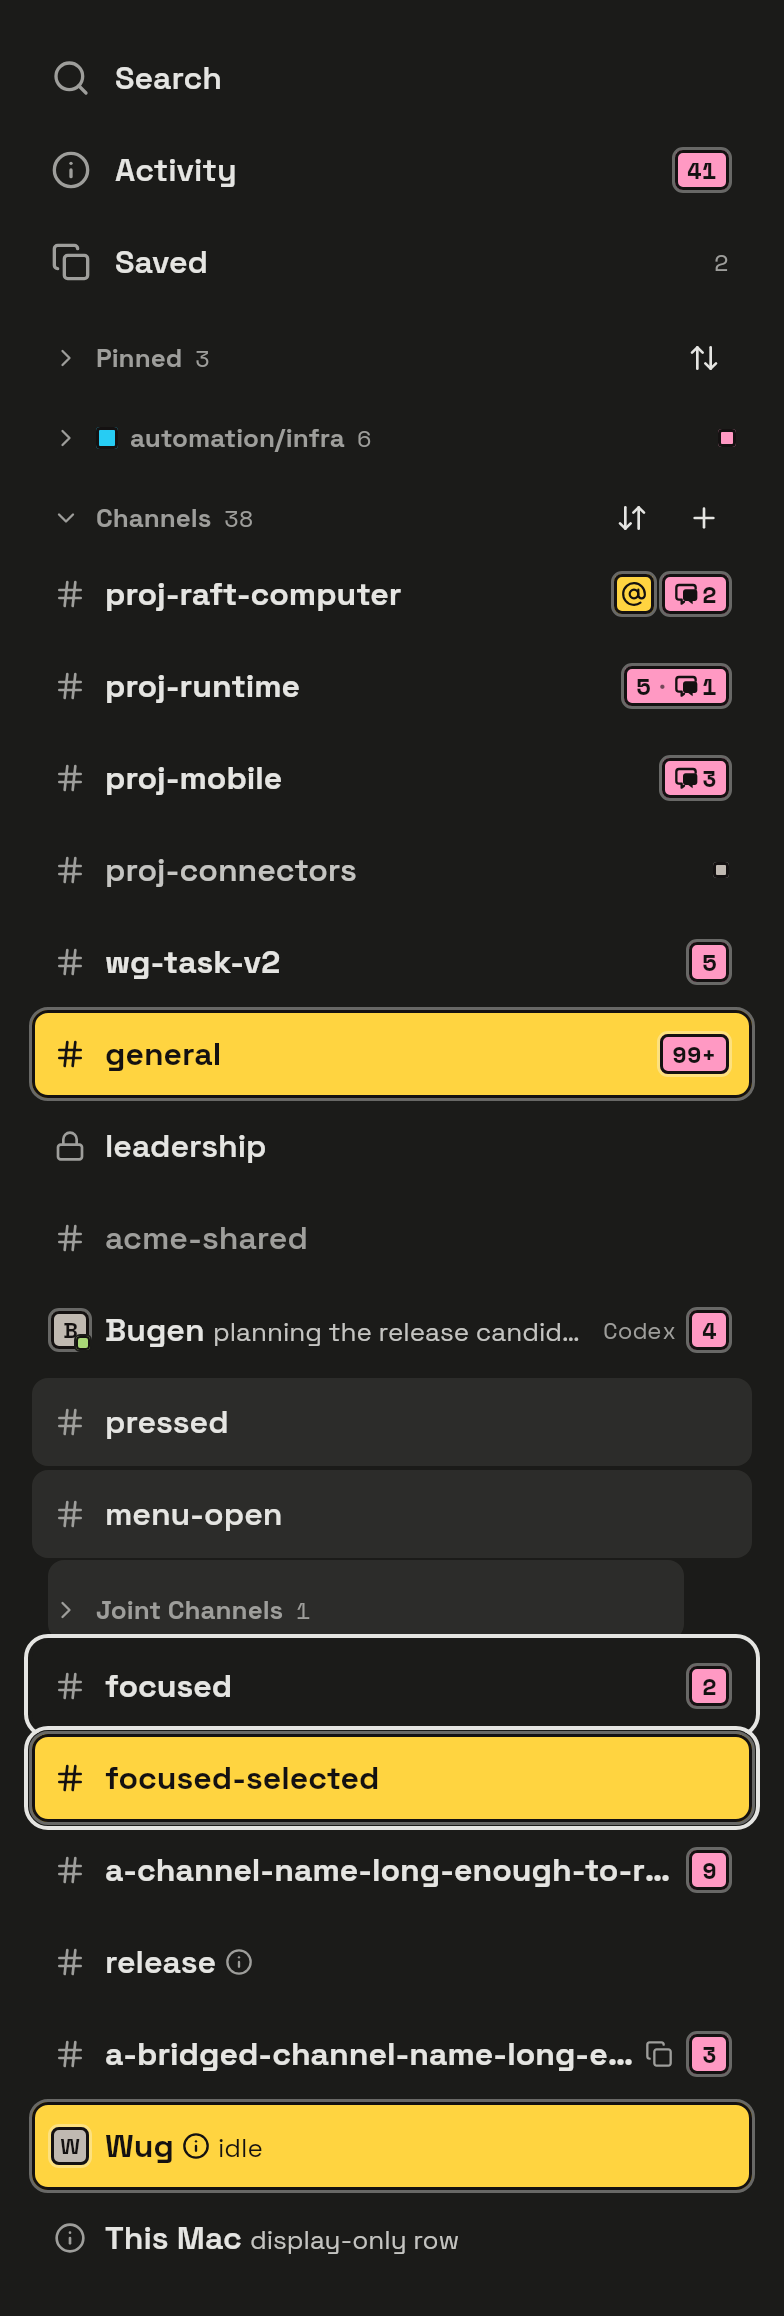
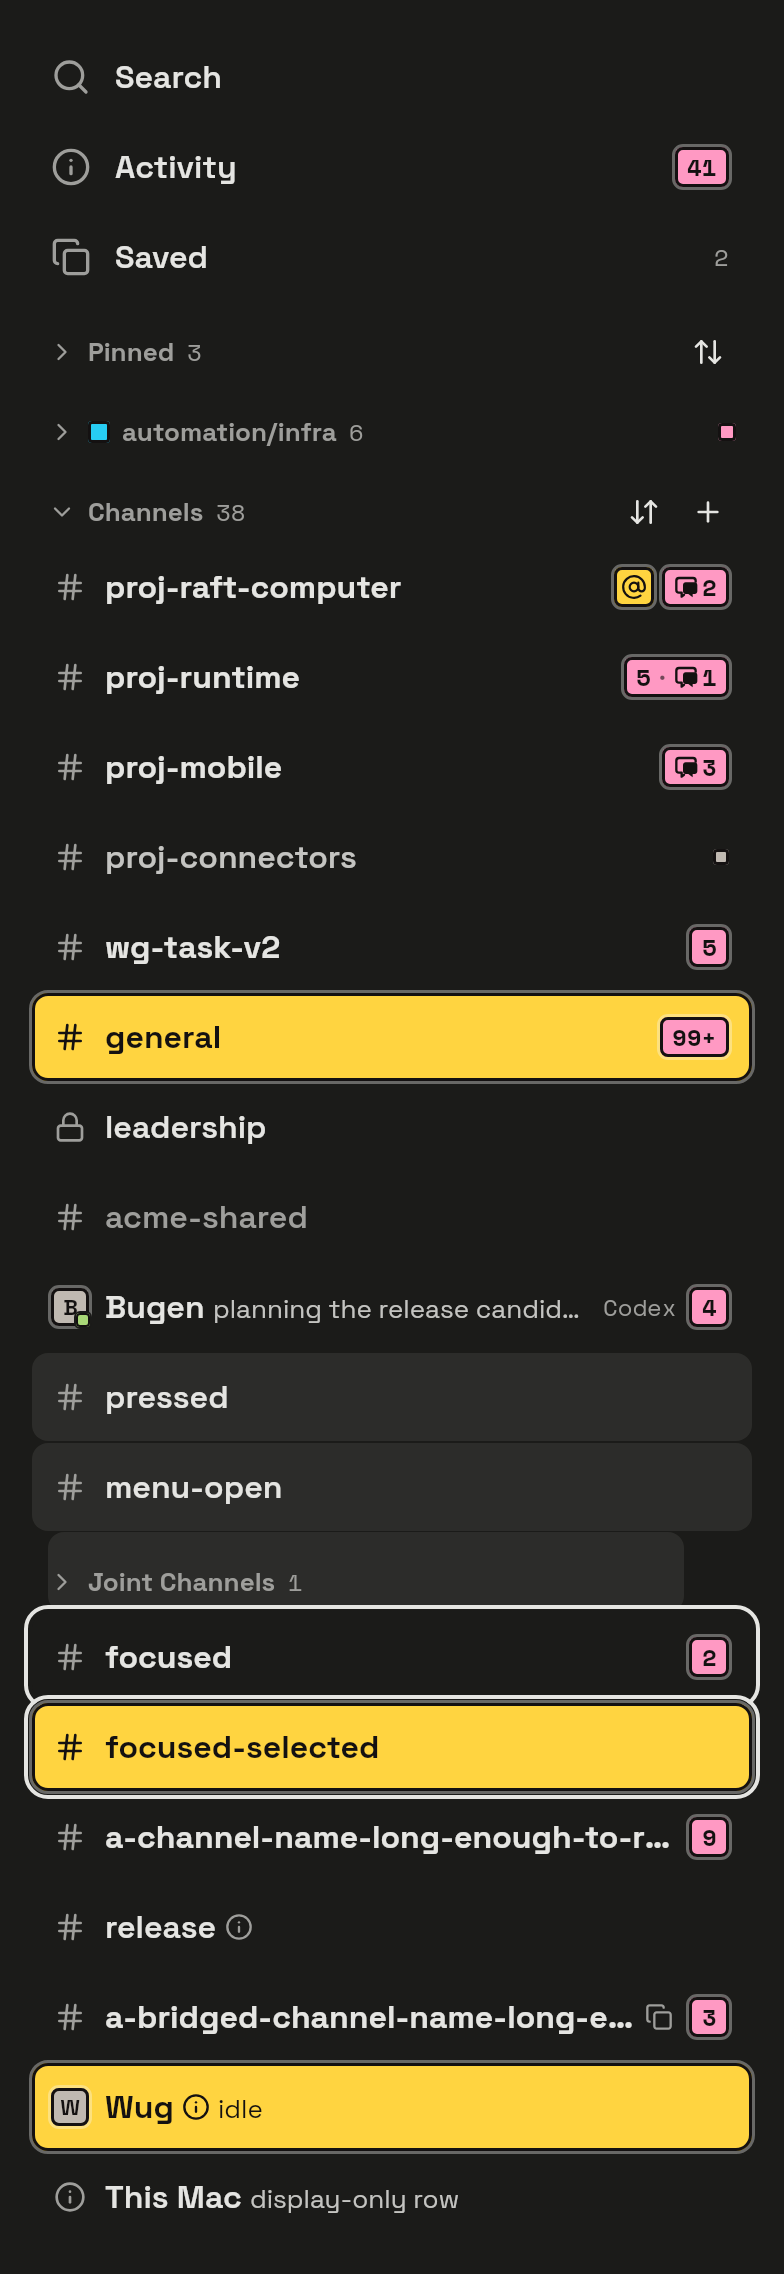
test(designsystem): measure sidebar row pitch at 2x density; record sidebar_dark from CI

diff --git a/compose/designsystem/src/desktopTest/kotlin/build/raft/designsystem/RaftDisplaySemanticsTest.kt b/compose/designsystem/src/desktopTest/kotlin/build/raft/designsystem/RaftDisplaySemanticsTest.kt
@@ -18,6 +18,7 @@ import androidx.compose.ui.ExperimentalComposeUiApi
 import androidx.compose.ui.ImageComposeScene
 import androidx.compose.ui.Alignment
 import androidx.compose.ui.Modifier
+import androidx.compose.ui.platform.LocalDensity
 import androidx.compose.ui.geometry.Offset
 import androidx.compose.ui.graphics.Color
 import androidx.compose.ui.platform.testTag
@@ -231,9 +232,10 @@ class RaftDisplaySemanticsTest {
         }
 
     /** Web phone metrics (Lagoon's 393dp measurement): a header with two controls over two rows. */
-    private fun androidx.compose.ui.test.ComposeUiTest.setSidebarWebMetricsContent() {
+    private fun androidx.compose.ui.test.ComposeUiTest.setSidebarWebMetricsContent(screenDensity: Float? = null) {
         setContent(
             themed {
+                CompositionLocalProvider(LocalDensity provides Density(screenDensity ?: LocalDensity.current.density)) {
                 Column(Modifier.width(393.dp)) {
                     RaftSidebarSectionHeader(
                         "Channels",
@@ -248,6 +250,7 @@ class RaftDisplaySemanticsTest {
                     RaftSidebarItem("general", onClick = {}, modifier = Modifier.testTag("row1"))
                     RaftSidebarItem("random", onClick = {}, modifier = Modifier.testTag("row2"))
                 }
+                }
             },
         )
     }
@@ -258,12 +261,15 @@ class RaftDisplaySemanticsTest {
     private fun androidx.compose.ui.test.ComposeUiTest.textBounds(text: String) =
         onNodeWithText(text, useUnmergedTree = true).fetchSemanticsNode().boundsInRoot
 
-    /** Rows 44dp tall and 1dp apart (the web's collapsed `my-px`). */
+    /**
+     * Rows 44dp tall and 1dp apart (the web's collapsed `my-px`), at a phone's 2x density: at
+     * 1x each 0.5dp margin rounds to a whole pixel.
+     */
     @Test
     fun sidebarRowsStand1dpApart() =
         runComposeUiTest {
-            setSidebarWebMetricsContent()
-            assertEquals(45f, (textBounds("random").top - textBounds("general").top) / density.density, 0.5f)
+            setSidebarWebMetricsContent(screenDensity = 2f)
+            assertEquals(45f, (textBounds("random").top - textBounds("general").top) / 2f, 0.5f)
         }
 
     /** A group header's title sits `px-2` + the 14dp chevron + `gap-1.5` from its edge. */
